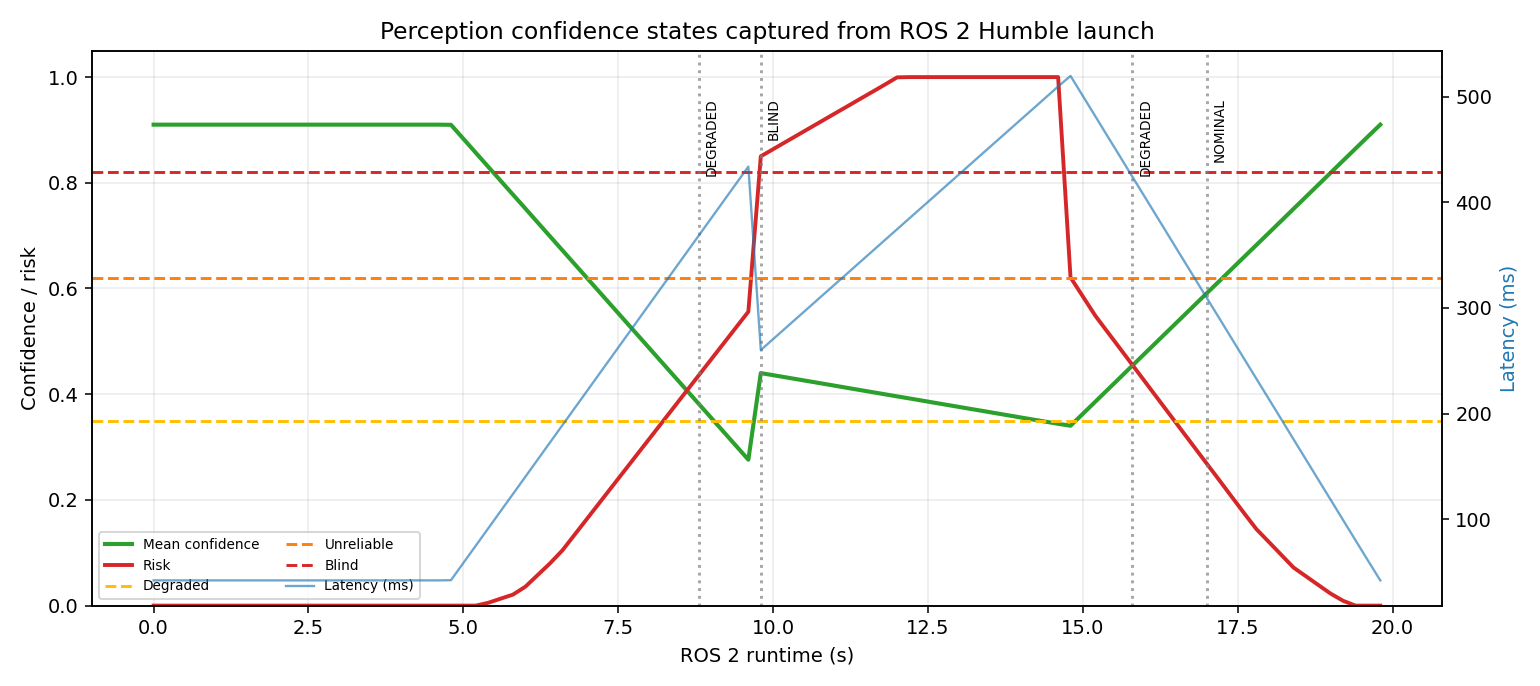
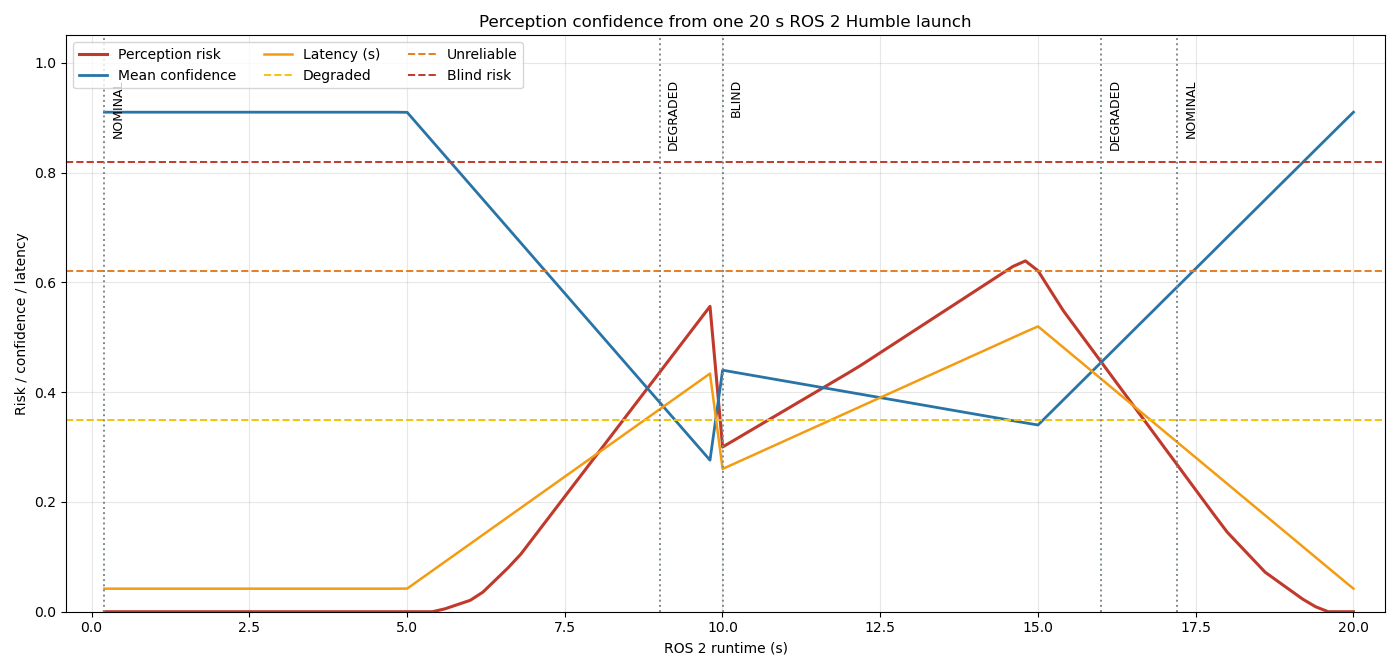
fix(air): 修正感知缺失风险重复计算

diff --git a/src/air/uav_perception_confidence_guard/launch/main.launch.py b/src/air/uav_perception_confidence_guard/launch/main.launch.py
@@ -2,7 +2,9 @@ import os
 
 from ament_index_python.packages import get_package_share_directory
 from launch import LaunchDescription
-from launch.actions import DeclareLaunchArgument
+from launch.actions import DeclareLaunchArgument, EmitEvent, RegisterEventHandler
+from launch.event_handlers import OnProcessExit
+from launch.events import Shutdown
 from launch.substitutions import LaunchConfiguration
 from launch_ros.actions import Node
 from launch_ros.parameter_descriptions import ParameterValue
@@ -14,29 +16,43 @@ def generate_launch_description():
         "config",
         "demo.yaml",
     )
+    simulator = Node(
+        package="uav_perception_confidence_guard",
+        executable="perception_confidence_sim",
+        name="uav_perception_confidence_sim",
+        output="screen",
+        parameters=[
+            config,
+            {
+                "duration_s": ParameterValue(
+                    LaunchConfiguration("duration"), value_type=float
+                )
+            },
+        ],
+    )
+    guard = Node(
+        package="uav_perception_confidence_guard",
+        executable="perception_confidence_guard",
+        name="uav_perception_confidence_guard",
+        output="screen",
+        parameters=[config],
+    )
     return LaunchDescription(
         [
             DeclareLaunchArgument("duration", default_value="0.0"),
-            Node(
-                package="uav_perception_confidence_guard",
-                executable="perception_confidence_sim",
-                name="uav_perception_confidence_sim",
-                output="screen",
-                parameters=[
-                    config,
-                    {
-                        "duration_s": ParameterValue(
-                            LaunchConfiguration("duration"), value_type=float
+            simulator,
+            guard,
+            RegisterEventHandler(
+                OnProcessExit(
+                    target_action=simulator,
+                    on_exit=[
+                        EmitEvent(
+                            event=Shutdown(
+                                reason="perception scenario reached its duration"
+                            )
                         )
-                    },
-                ],
-            ),
-            Node(
-                package="uav_perception_confidence_guard",
-                executable="perception_confidence_guard",
-                name="uav_perception_confidence_guard",
-                output="screen",
-                parameters=[config],
+                    ],
+                )
             ),
         ]
     )

diff --git a/src/air/uav_perception_confidence_guard/tests/test_core.py b/src/air/uav_perception_confidence_guard/tests/test_core.py
@@ -20,6 +20,10 @@ class PerceptionConfidenceTests(unittest.TestCase):
         result = PerceptionConfidenceGuard().evaluate(self.sample(count=0))
         self.assertEqual(result.state, "BLIND")
 
+    def test_missing_expected_target_risk_matches_formula(self):
+        result = PerceptionConfidenceGuard().evaluate(self.sample(count=0))
+        self.assertAlmostEqual(result.risk, 0.0275, places=6)
+
     def test_missing_target_not_expected_is_not_immediate_blind(self):
         result = PerceptionConfidenceGuard().evaluate(
             self.sample(count=0, expected=False)

diff --git a/src/air/uav_perception_confidence_guard/uav_perception_confidence_guard/nodes.py b/src/air/uav_perception_confidence_guard/uav_perception_confidence_guard/nodes.py
@@ -5,7 +5,9 @@ from __future__ import annotations
 from dataclasses import asdict
 import csv
 import json
+import os
 from pathlib import Path
+import signal
 
 import rclpy
 from rclpy.node import Node
@@ -35,7 +37,7 @@ class PerceptionConfidenceSimulator(Node):
         )
         if self.duration_s > 0.0 and elapsed >= self.duration_s:
             self.get_logger().info(f"perception scenario completed after {elapsed:.2f} s")
-            rclpy.shutdown()
+            os.kill(os.getpid(), signal.SIGINT)
 
 
 class PerceptionConfidenceGuardNode(Node):

diff --git a/src/air/uav_perception_confidence_guard/uav_perception_confidence_guard/core.py b/src/air/uav_perception_confidence_guard/uav_perception_confidence_guard/core.py
@@ -91,7 +91,6 @@ class PerceptionConfidenceGuard:
             + 0.16 * freshness_risk
             + 0.07 * illumination_risk
             + 0.05 * missing_risk
-            + missing_risk
         )
         if missing_expected or sample.frame_age_ms >= 1400.0 or sample.latency_ms >= 480.0:
             desired = "BLIND"

diff --git a/src/air/uav_perception_confidence_guard/README.md b/src/air/uav_perception_confidence_guard/README.md
@@ -4,6 +4,19 @@ ROS 2 runtime perception-health monitor. It combines expected-target detection,
 mean confidence, predictive entropy, inference latency, frame freshness and
 illumination, then emits `NOMINAL / DEGRADED / UNRELIABLE / BLIND`.
 
+## Reproducible environment
+
+- Ubuntu 22.04.5 LTS
+- ROS 2 Humble
+- Python 3.10.12
+
+Install declared ROS dependencies from the workspace root:
+
+```bash
+sudo apt update
+rosdep install --from-paths src --ignore-src -r -y
+```
+
 ```bash
 source /opt/ros/humble/setup.bash
 colcon build --symlink-install --packages-select uav_perception_confidence_guard
@@ -11,10 +24,33 @@ source install/setup.bash
 ros2 launch uav_perception_confidence_guard main.launch.py duration:=20
 ```
 
-Topics:
+`duration` is the simulator run time in seconds. With a positive value, the
+simulator exits when that duration is reached and the launch file shuts down
+both nodes automatically. With the default `duration:=0.0`, stop the
+continuously running demo with `Ctrl+C`.
+
+Run the ten unit tests from the package source directory:
+
+```bash
+PYTHONPATH=. python3 -m unittest discover -s tests -v
+```
+
+The CSV defaults to `/tmp/uav_perception_confidence_runtime.csv`.
+
+## ROS 2 topics
 
 - `/uav_perception/confidence_sample`: simulated detector and frame statistics.
 - `/uav_perception/confidence_assessment`: confidence, latency and health risk.
 - `/uav_perception/confidence_advice`: margin, hold/return or motion-stop advice.
+
+The input topic accepts JSON with `timestamp_s`, `frame_id`,
+`target_expected`, `detection_count`, `mean_confidence`,
+`predictive_entropy`, `latency_ms`, `frame_age_ms`, and `illumination_lux`.
+
+The CSV columns are `time_s`, `state`, `risk`, `mean_confidence`,
+`predictive_entropy`, `latency_ms`, `frame_age_ms`, and `recommendation`.
+
+For a missing expected target, the formula contributes
+`0.05 * 0.55 = 0.0275`; the state still transitions immediately to `BLIND`.
 
 The monitor does not replace the detector and does not directly command the UAV.

diff --git a/docs/air/uav_perception_confidence_guard.md b/docs/air/uav_perception_confidence_guard.md
@@ -15,7 +15,7 @@ R=0.30R_{confidence}+0.22R_{entropy}+0.20R_{latency}
 \quad +0.16R_{freshness}+0.07R_{light}+0.05R_{missing}
 \]
 
-当任务预期存在目标但检测数为零时，额外提高风险并立即进入 `BLIND`。帧年龄超过 1.4 秒、推理延迟超过 480 毫秒也会立即进入盲区状态。
+当任务预期存在目标但检测数为零时，`R_missing=0.55`，按公式贡献 `0.05×0.55=0.0275` 的风险并立即进入 `BLIND`。帧年龄超过 1.4 秒、推理延迟超过 480 毫秒也会立即进入盲区状态。
 
 状态：
 
@@ -45,9 +45,11 @@ ros2 launch uav_perception_confidence_guard main.launch.py duration:=20
 
 CSV 默认写入 `/tmp/uav_perception_confidence_runtime.csv`。
 
+当 `duration` 大于 0 时，模拟器结束会触发整个 launch 自动关闭；默认 `duration:=0.0` 表示持续运行，此时使用 `Ctrl+C` 手动停止。
+
 ## 4. Humble 虚拟机实测
 
-Ubuntu 22.04.5 / ROS 2 Humble 下真实构建成功，VM 内 9 项 `unittest` 全部通过。`ros2 launch` 启动两个节点，运行 20 秒并记录 100 条状态。
+Ubuntu 22.04.5 / ROS 2 Humble / Python 3.10.12 下真实构建成功，VM 内 10 项 `unittest` 全部通过。`ros2 launch ... duration:=20` 启动两个节点并在约 20 秒后自动退出。
 
 实际状态迁移：
 
@@ -57,7 +59,7 @@ NOMINAL → DEGRADED → BLIND → DEGRADED → NOMINAL
 
 故障段预测目标存在但检测数为零，推理延迟接近 520 ms，帧年龄超过 1.4 s；恢复后置信度回到 0.91，延迟降至 42 ms。
 
-VM 内实际终端截图同时记录了 Ubuntu/ROS 版本、`colcon build`、9 项单元测试、两个节点启动、感知状态迁移和 CSV 尾部：
+VM 内实际终端截图同时记录了 Ubuntu/ROS 版本、`colcon build`、10 项单元测试、两个节点启动、感知状态迁移、自动退出和 CSV 尾部：
 
 ![ROS 2 Humble 虚拟机感知置信度实测终端](../img/air/uav_perception_confidence_guard/runtime_vm_terminal.png)
 
